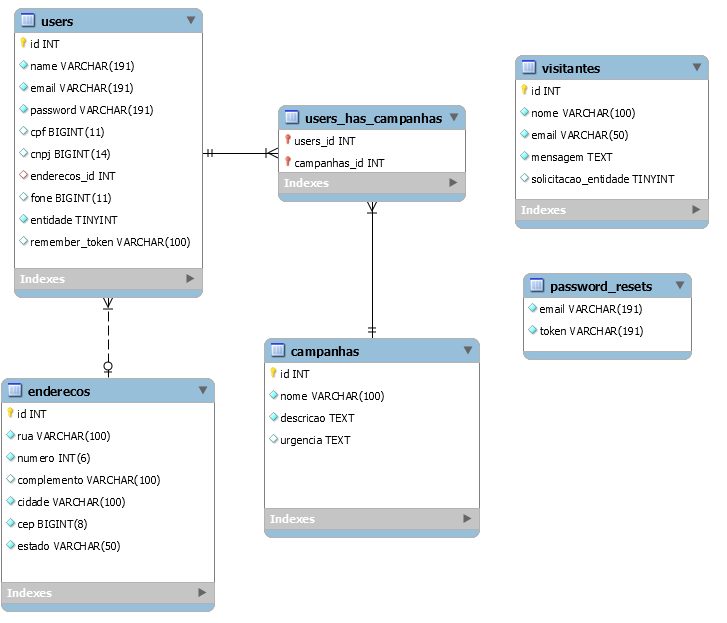
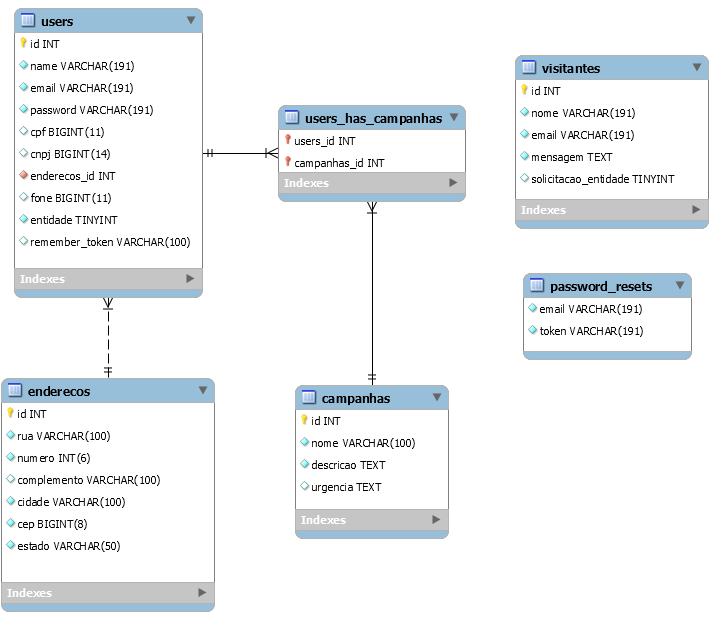
Nova configuração de bd

Changed region(s): [[0.3631, 0.5185, 0.6657, 0.8844], [0.8473, 0.2135, 0.8776, 0.244]]

diff --git a/database/migrations/2018_04_19_234223_create_user_campanhas_table.php b/database/migrations/2018_04_19_234223_create_user_campanhas_table.php
@@ -1,0 +1,39 @@
+<?php
+
+use Illuminate\Support\Facades\Schema;
+use Illuminate\Database\Schema\Blueprint;
+use Illuminate\Database\Migrations\Migration;
+
+class CreateUserCampanhasTable extends Migration
+{
+    /**
+     * Run the migrations.
+     *
+     * @return void
+     */
+    public function up()
+    {
+        Schema::create('user_campanhas', function (Blueprint $table) {
+            $table->increments('id');
+            $table->unsignedInteger('users_id');
+            $table->foreign('users_id')
+                ->references('id')->on('users_id')
+                ->onDelete('cascade');
+            $table->unsignedInteger('campanhas_id');
+            $table->foreign('campanhas_id')
+                ->references('id')->on('campanhas_id')
+                ->onDelete('cascade');
+            $table->timestamps();
+        });
+    }
+
+    /**
+     * Reverse the migrations.
+     *
+     * @return void
+     */
+    public function down()
+    {
+        Schema::dropIfExists('user_campanhas');
+    }
+}

diff --git a/database/migrations/2018_04_10_010143_create_campanhas_table.php b/database/migrations/2018_04_10_010143_create_campanhas_table.php
@@ -17,15 +17,7 @@ class CreateCampanhasTable extends Migration
             $table->increments('id');
             $table->string('nome', 100);
             $table->text('descricao');
-            $table->text('urgencia');
-            $table->unsignedInteger('entidades_id');
-            $table->foreign('entidades_id')
-                ->references('id')->on('entidades')
-                ->onDelete('cascade');
-            $table->unsignedInteger('users_id')->nullable();
-            $table->foreign('users_id')
-                ->references('id')->on('users')
-                ->onDelete('cascade');
+            $table->text('urgencia')->nullable();
             $table->timestamps();
         });
     }

diff --git a/database/migrations/2018_04_10_004800_create_users_table.php b/database/migrations/2018_04_10_004800_create_users_table.php
@@ -18,8 +18,10 @@ class CreateUsersTable extends Migration
             $table->string('name');
             $table->string('email')->unique();
             $table->string('password');
-            $table->bigInteger('cpf');
+            $table->bigInteger('cpf')->unique()->nullable();
+            $table->bigInteger('cnpf')->unique()->nullable();
             $table->bigInteger('fone')->nullable();
+            $table->boolean('entidade')->default(0);
             $table->unsignedInteger('enderecos_id');
             $table->foreign('enderecos_id')
                 ->references('id')->on('enderecos')

diff --git a/database/migrations/2018_04_10_010635_create_visitantes_table.php b/database/migrations/2018_04_10_010635_create_visitantes_table.php
@@ -15,8 +15,8 @@ class CreateVisitantesTable extends Migration
     {
         Schema::create('visitantes', function (Blueprint $table) {
             $table->increments('id');
-            $table->string('nome', 100);
-            $table->string('email', 50);
+            $table->string('nome', 191);
+            $table->string('email', 191);
             $table->text('mensagem');
             $table->boolean('solicitacao_entidade')->nullable();
             $table->timestamps();

diff --git a/app/User.php b/app/User.php
@@ -15,7 +15,7 @@ class User extends Authenticatable
      * @var array
      */
     protected $fillable = [
-        'name', 'email', 'password', 'cpf', 'enderecos_id', 'fone',
+        'name', 'email', 'password', 'cpf', 'enderecos_id', 'fone', 'entidade',
     ];
 
     public function endereco(){

diff --git a/app/UserCampanha.php b/app/UserCampanha.php
@@ -4,9 +4,9 @@ namespace App;
 
 use Illuminate\Database\Eloquent\Model;
 
-class Visitante extends Model
+class UserCampanha extends Model
 {
     protected $fillable = [
-        'nome', 'email', 'mensagem', 'solicitacao_entidade',
+        'users_id', 'campanhas_id',
     ];
 }

diff --git a/app/Campanha.php b/app/Campanha.php
@@ -6,5 +6,7 @@ use Illuminate\Database\Eloquent\Model;
 
 class Campanha extends Model
 {
-    //
+    protected $fillable = [
+        'nome', 'descricao', 'urgencia',
+    ];
 }
